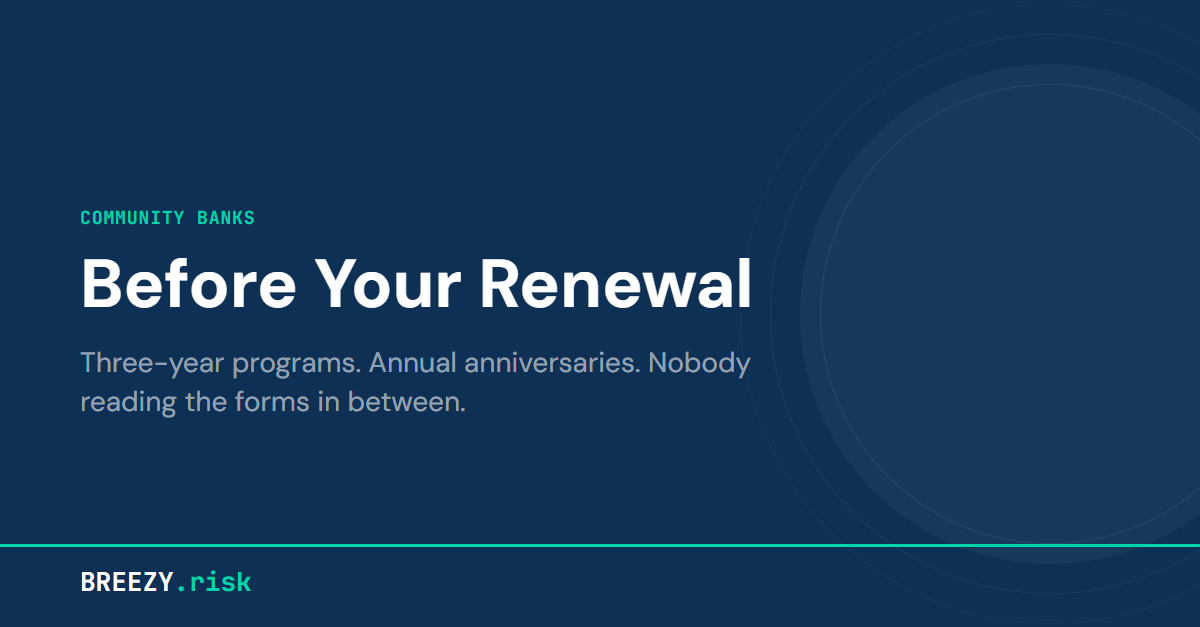
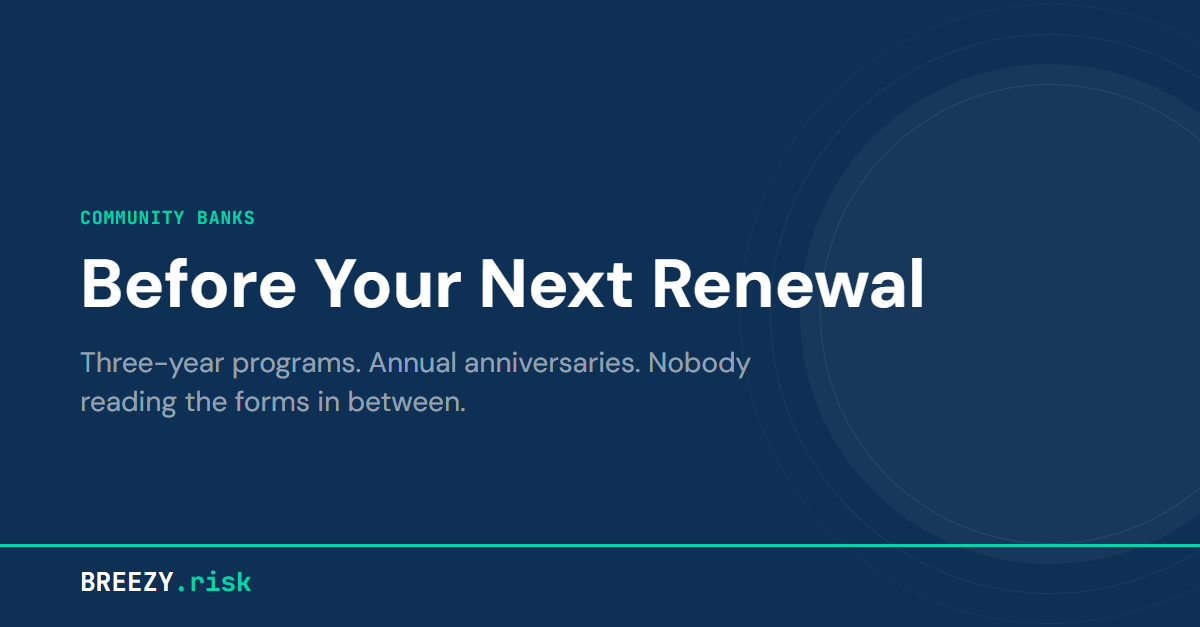
Refine Before Your Next Renewal: title, subtitle, visual elements, SEO
Title updated to Before Your Next Renewal. Subtitle added. Visual
elements: loss breakdown card, amber warning callout on verification
requirement, numbered action card at closing. FAQ schema and tags
added for structured data.

Changed region(s): [[0.4008, 0.3939, 0.7708, 0.5152]]

diff --git a/assets/images/blog-header-before-your-renewal.html b/assets/images/blog-header-before-your-renewal.html
@@ -148,7 +148,7 @@ sitemap: false
 
     <div class="content">
         <div class="category">Community Banks</div>
-        <div class="title">Before Your Renewal</div>
+        <div class="title">Before Your Next Renewal</div>
         <div class="subtitle">Three-year programs. Annual anniversaries. Nobody reading the forms in between.</div>
     </div>
 

diff --git a/_posts/2026-08-05-before-your-renewal.md b/_posts/2026-08-05-before-your-renewal.md
@@ -1,6 +1,6 @@
 ---
 layout: post
-title: "Before Your Renewal"
+title: "Before Your Next Renewal"
 description: "Three-year programs give banks bundled pricing and stable coverage. They also give carriers three years to revise forms while nobody reads the amendments."
 date: 2026-08-05
 author: Joerg Proeve
@@ -8,7 +8,7 @@ category: Community Banks
 read_time: "5 min read"
 image: /assets/images/Blog-Before-Your-Renewal.png
 image_alt: "Before your renewal: three-year insurance program gaps that community banks miss between formal renewals"
-last_modified_at: 2026-08-05
+last_modified_at: 2026-08-07
 permalink: /insights/before-your-renewal/
 tags: [three-year insurance program, community bank insurance, fidelity bond, social engineering sublimit, condition precedent, insurance renewal, D&O, cyber insurance, ABA Insurance Services, policy interaction]
 faq:
@@ -22,6 +22,8 @@ faq:
     answer: "Some gaps can be addressed immediately. Wire procedure mismatches with the bond's verification requirement can be fixed at any time by aligning the bank's internal procedures to what the bond requires. Sublimit adjustments and policy coordination gaps typically need to wait for the next renewal negotiation, but identifying them now means the bank is prepared when that window opens."
 ---
 
+<p style="font-size: 22px; color: #555; font-style: italic; margin-bottom: 32px;">When was the last time anyone read the forms?</p>
+
 The CFO gets the continuation notice. Three policies: cyber, fidelity bond, D&O. The summary page compares this year's premium to last year's. Cyber up 4%. Bond is slightly down because of a clean loss year, D&O is flat.
 
 All three policies are bundled to a program. ABA Insurance Services covers roughly a third of community banks; Travelers Select+ covers another large share. Most community banks I talk to carry at least part of their coverage through a program: multiple lines, one carrier family, and three-year policy term.
@@ -33,6 +35,16 @@ For this bank, the real renewal was two years ago. That's when the broker went t
 A wire fraud hits the community bank. $400,000 is stolen. IT responds immediately, but the money is gone.
 
 The CFO files a claim and is blindsided. The bond carrier pays $187,500 on a $400,000 loss.
+
+<div style="background: #0A2540; border-radius: 12px; padding: 28px 32px; margin: 28px 0; color: #fff;">
+<div style="font-size: 14px; font-weight: 700; color: #00D4AA; text-transform: uppercase; letter-spacing: 0.05em; margin-bottom: 12px;">Scenario outcome</div>
+<div style="display: flex; flex-wrap: wrap; gap: 24px; align-items: baseline;">
+<div><div style="font-size: 13px; color: rgba(255,255,255,0.5); margin-bottom: 4px;">Loss</div><div style="font-size: 28px; font-weight: 700;">$400,000</div></div>
+<div><div style="font-size: 13px; color: rgba(255,255,255,0.5); margin-bottom: 4px;">Bond recovery</div><div style="font-size: 28px; font-weight: 700; color: #F59E0B;">$187,500</div></div>
+<div><div style="font-size: 13px; color: rgba(255,255,255,0.5); margin-bottom: 4px;">Bank absorbs</div><div style="font-size: 28px; font-weight: 700; color: #EF4444;">$212,500</div></div>
+</div>
+<div style="margin-top: 16px; padding-top: 12px; border-top: 1px solid rgba(255,255,255,0.12); font-size: 14px; color: rgba(255,255,255,0.6); line-height: 1.55;">Social engineering sublimit: $250,000 (frozen since placement). Co-payment: 25% (added at last anniversary).</div>
+</div>
 
 He finds out that the social engineering add-on had a sublimit of $250,000 (set when the program was placed initially, and never adjusted) and a 25% co-payment the carrier added at the last anniversary when it revised the form. The co-payment means the bank absorbs 25 cents of every dollar of loss. Both numbers were on the declarations page. The broker's continuation notice focused on premium, not these "nuances."
 
@@ -66,6 +78,10 @@ On a three-year program this compounds. Wire volume increased. The bank added di
 
 ### The verification requirement
 
+<div style="border-left: 3px solid #F59E0B; padding: 16px 20px; background: rgba(245,158,11,0.05); border-radius: 0 8px 8px 0; margin: 24px 0; font-size: 15px; color: #555; line-height: 1.65;">
+This is the one finding I flag for immediate action at every audit, regardless of where the bank stands in its policy term. It doesn't wait for renewal.
+</div>
+
 The bond's social engineering add-on requires the bank to follow a specific callback procedure above a threshold (often $25,000). If the bank didn't follow the steps exactly, the claim gets denied. This is a "condition precedent": the carrier declines the claim, and doesn't need to prove that the failure to follow the callback procedure caused the loss.
 
 The bond requires a callback to a number the bank already has on file. The number in the wire instructions doesn't count. Email doesn't count.
@@ -88,6 +104,15 @@ Renewal is when that second job counts. After the policies bind, the language is
 
 Most banks review their premium at renewal. On a three-year program, that's once every three years. Almost none review the language.
 
-If your renewal is within 90 days, that's the window to read the forms before they bind. If you are mid-term, the language is already fixed, but the risks it's supposed to cover are not. You can still check whether your wire procedures match the bond's requirements, whether your sublimits reflect your current exposure, and whether you know which policy responds to which loss. That work doesn't require a renewal. Wire procedure mismatches you can fix today. Sublimit and coordination gaps go on the list for your next renewal negotiation.
+<div style="background: #f8faf9; border-radius: 10px; padding: 28px 32px; margin: 24px 0;">
+<div style="display: flex; gap: 16px; margin-bottom: 20px;">
+<div style="min-width: 32px; height: 32px; background: #00D4AA; border-radius: 50%; display: flex; align-items: center; justify-content: center; font-weight: 700; color: #0A2540; font-size: 16px;">1</div>
+<div><strong>Renewal within 90 days?</strong> That's the window to read the forms before they bind. Review sublimits, verify the callback procedure matches your wire process, and confirm which policy responds to which loss.</div>
+</div>
+<div style="display: flex; gap: 16px;">
+<div style="min-width: 32px; height: 32px; background: #00D4AA; border-radius: 50%; display: flex; align-items: center; justify-content: center; font-weight: 700; color: #0A2540; font-size: 16px;">2</div>
+<div><strong>Mid-term on a multi-year program?</strong> The language is already fixed, but the risks it's supposed to cover are not. Wire procedure mismatches you can fix today. Sublimit and coordination gaps go on the list for your next renewal negotiation.</div>
+</div>
+</div>
 
 [Get in touch]({{ '/contact/' | relative_url }}).
